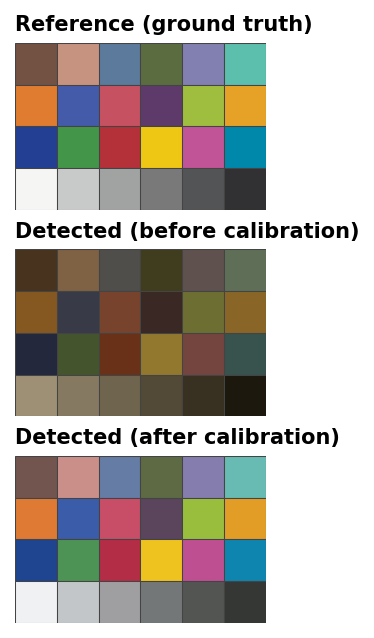
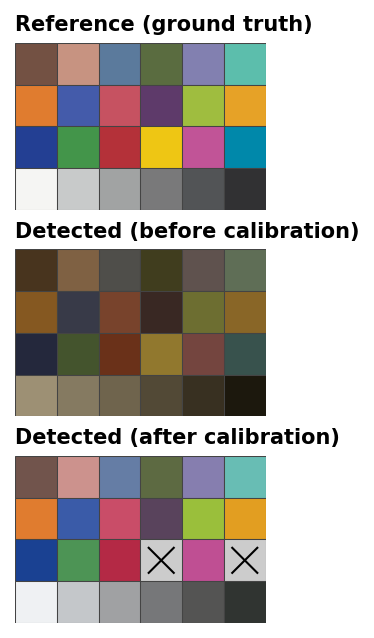
Use PNG with sRGB ICC profile instead of ad-hoc gamma JPEG
Save corrected images with the proper sRGB transfer function
(IEC 61966-2-1) and embedded sRGB ICC profile instead of a raw
x^(1/2.2) gamma applied before JPEG encoding. Update identity
check numbers accordingly.

Changed region(s): [[0.5882, 0.8339, 0.7353, 0.9232], [0.3529, 0.8339, 0.5, 0.9232]]

diff --git a/README.md b/README.md
@@ -20,7 +20,7 @@ Before and after calibration on a GoPro Hero10 frame (ColorChecker visible in sc
 
 | Before | After |
 |--------|-------|
-| ![Before calibration](docs/before.jpg) | ![After calibration](docs/after.jpg) |
+| ![Before calibration](docs/before.png) | ![After calibration](docs/after.png) |
 
 **Detected patches:** 24 of 24
 
@@ -49,14 +49,14 @@ Detecting the ColorChecker in the *corrected* image and solving again should pro
 
 **Re-detection CCM:**
 ```
-[[ 0.993   0.043  -0.029]
- [ 0.011   0.967   0.022]
- [-0.029   0.037   0.980]]
+[[ 0.984   0.055  -0.010]
+ [ 0.000   1.004   0.006]
+ [-0.026   0.044   0.997]]
 ```
 
-**Re-detection tone curve:** `[-0.0255, 1.9984, -0.3231, -0.1234]`
+**Re-detection tone curve:** `[-0.0268, 2.0255, -0.3482, -0.1722]`
 
-The CCM diagonals are within 3% of 1.0 and off-diagonals are under 0.05 — effectively an identity matrix. The tone curve departs from `[0, 1, 0, 0]` because the corrected image was gamma-encoded for storage (`x^(1/2.2)`), so the re-detected curve absorbs that encoding rather than being a true identity.
+The CCM diagonals are within 2% of 1.0 and off-diagonals are under 0.06 — effectively an identity matrix. The tone curve departs from `[0, 1, 0, 0]` because the corrected image is stored as sRGB (with the standard IEC 61966-2-1 transfer function), so the re-detected curve absorbs that encoding.
 
 ## Usage
 